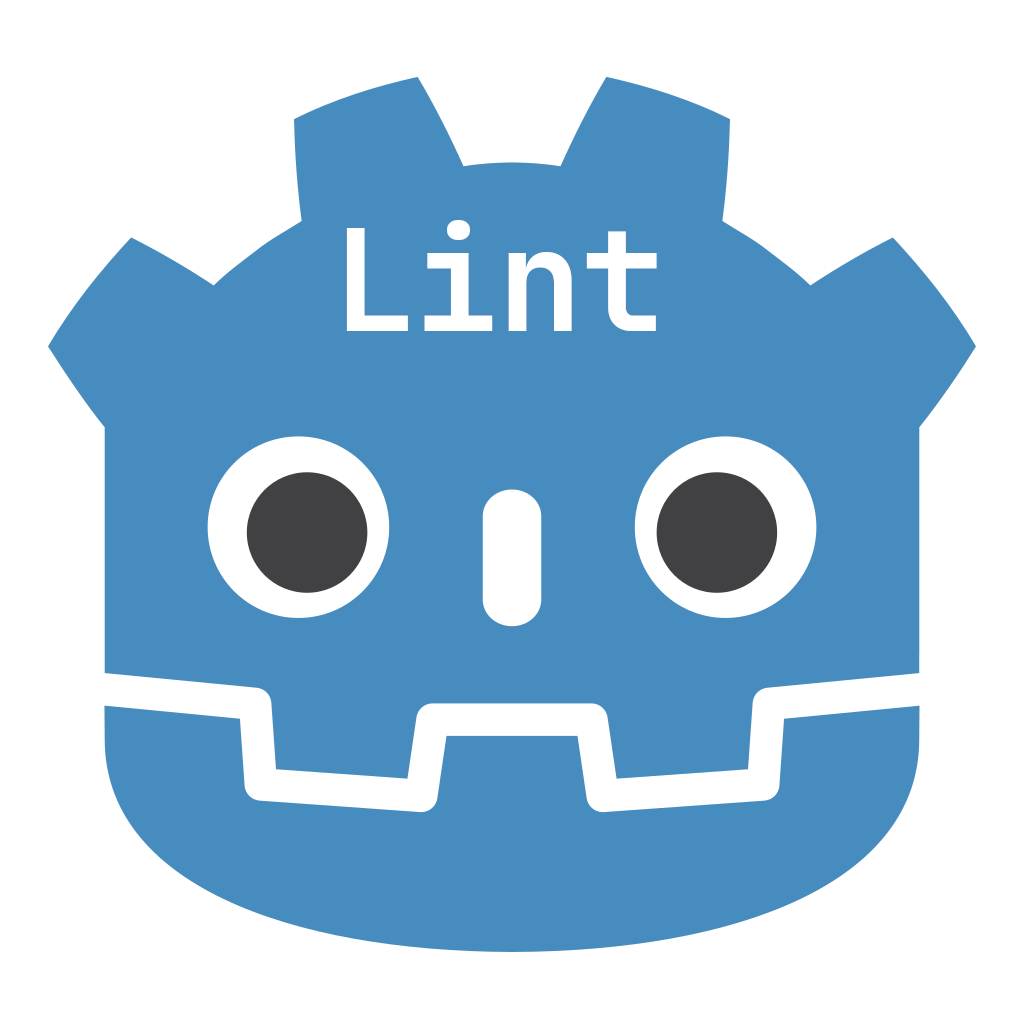
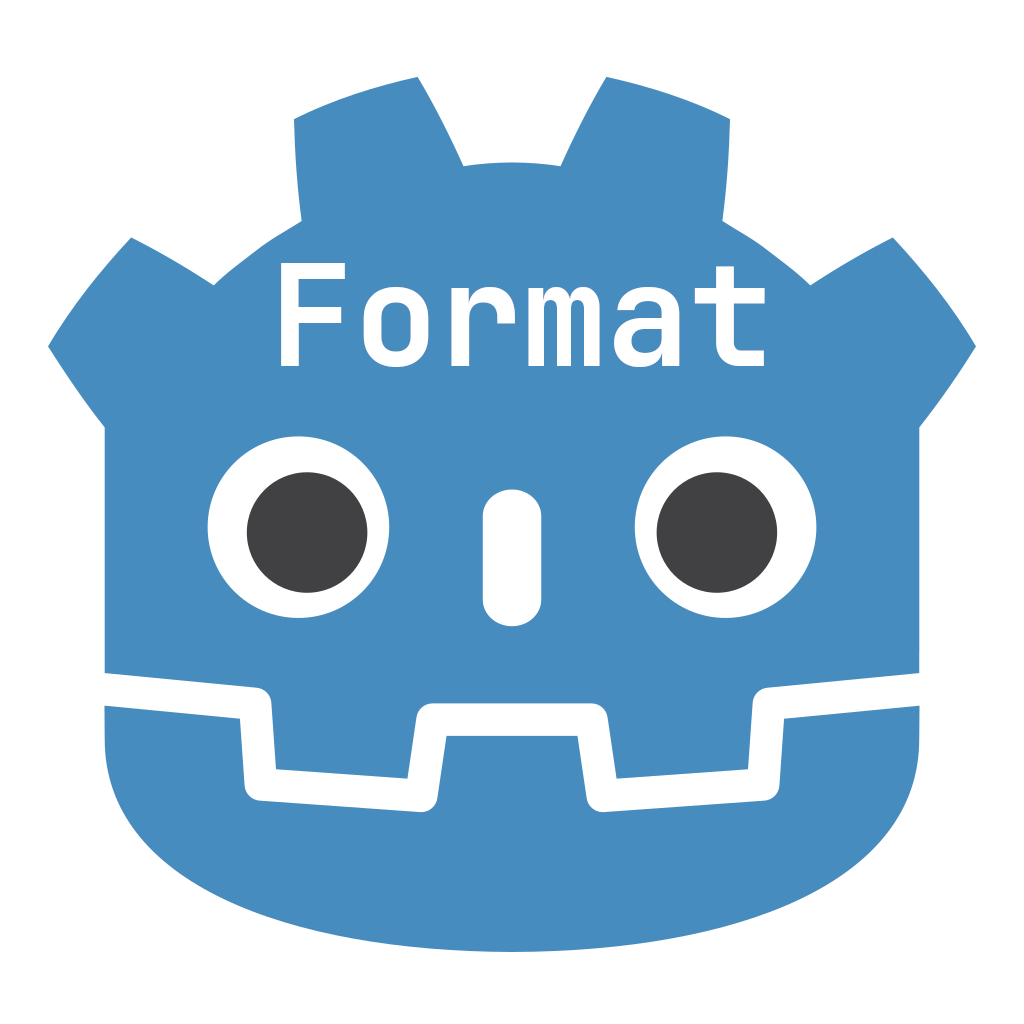
Add license, update visuals

Changed region(s): [[0.25, 0.2188, 0.75, 0.375]]

diff --git a/LICENSE.md b/LICENSE.md
@@ -1,0 +1,21 @@
+MIT License
+
+Copyright (c) 2025 DoHe
+
+Permission is hereby granted, free of charge, to any person obtaining a copy
+of this software and associated documentation files (the "Software"), to deal
+in the Software without restriction, including without limitation the rights
+to use, copy, modify, merge, publish, distribute, sublicense, and/or sell
+copies of the Software, and to permit persons to whom the Software is
+furnished to do so, subject to the following conditions:
+
+The above copyright notice and this permission notice shall be included in all
+copies or substantial portions of the Software.
+
+THE SOFTWARE IS PROVIDED "AS IS", WITHOUT WARRANTY OF ANY KIND, EXPRESS OR
+IMPLIED, INCLUDING BUT NOT LIMITED TO THE WARRANTIES OF MERCHANTABILITY,
+FITNESS FOR A PARTICULAR PURPOSE AND NONINFRINGEMENT. IN NO EVENT SHALL THE
+AUTHORS OR COPYRIGHT HOLDERS BE LIABLE FOR ANY CLAIM, DAMAGES OR OTHER
+LIABILITY, WHETHER IN AN ACTION OF CONTRACT, TORT OR OTHERWISE, ARISING FROM,
+OUT OF OR IN CONNECTION WITH THE SOFTWARE OR THE USE OR OTHER DEALINGS IN THE
+SOFTWARE.
